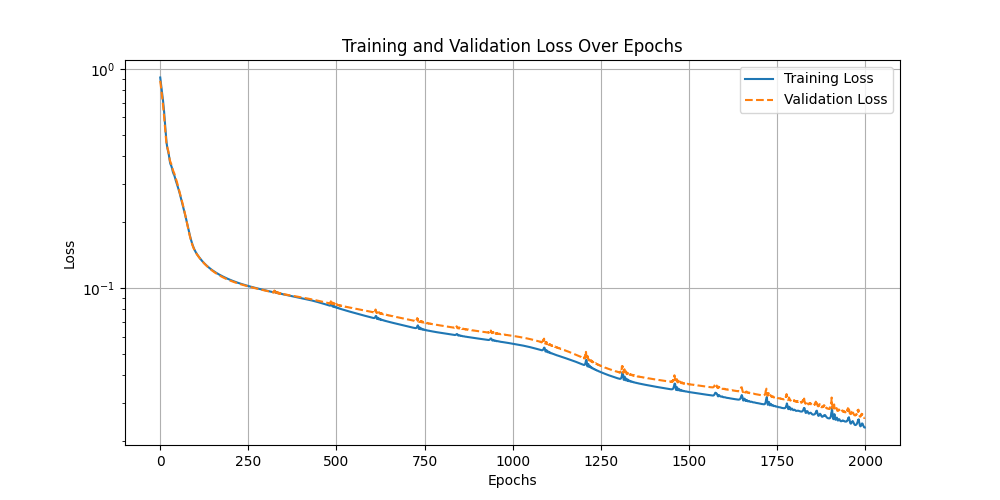
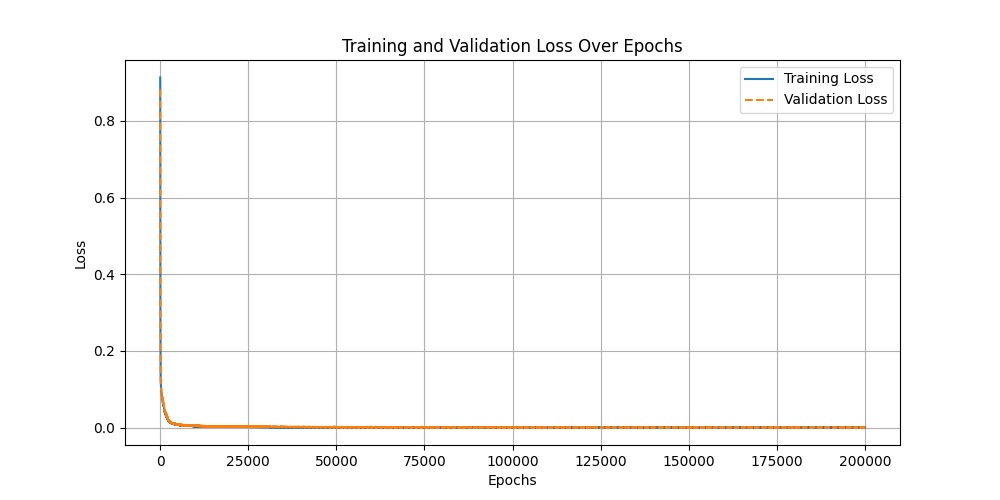
Dropout_altered

diff --git a/main/continuous_time_identification (Navier-Stokes)/NavierStokes_Pytorch_V9.py b/main/continuous_time_identification (Navier-Stokes)/NavierStokes_Pytorch_V9.py
@@ -1,3 +1,17 @@
+import numpy as np
+import torch
+import torch.nn as nn
+import torch.nn.init as init
+import scipy.io
+import matplotlib.pyplot as plt
+from torch.autograd import grad
+import time
+from sklearn.model_selection import train_test_split
+
+# Set seeds for reproducibility
+np.random.seed(1234)
+torch.manual_seed(1234)
+
 class PhysicsInformedNN(nn.Module):
     def __init__(self, layers, rho1=1.0, rho2=1.0, activation='tanh', dropout_prob=0.0):
         super(PhysicsInformedNN, self).__init__()
@@ -13,10 +27,9 @@ class PhysicsInformedNN(nn.Module):
         for i in range(len(layers) - 1):
             linear_layer = nn.Linear(layers[i], layers[i + 1])
             if i < len(layers) - 2:
-                # Add linear and activation layers to the model
+                # Add linear, activation, and dropout layers to the model
                 self.model.add_module(f"linear_{i}", linear_layer)
                 self.model.add_module(f"{activation}_{i}", activation_function)
-                # Add dropout layer if dropout_prob > 0
                 if dropout_prob > 0.0:
                     self.model.add_module(f"dropout_{i}", nn.Dropout(dropout_prob))
             else:
@@ -85,3 +98,148 @@ class PhysicsInformedNN(nn.Module):
         total_loss = self.rho1 * (mse_u + mse_v) + self.rho2 * (mse_f_u + mse_f_v)
         return total_loss, mse_u, mse_v, mse_f_u, mse_f_v
 
+def train_pinn(data_path, layers, rho1=1.0, rho2=1.0, epochs=200000, batch_size=5000, lr=0.001, noise_level=0.0, save_path="model.pth", track_loss=False, dropout_prob=0.0):
+    # Load the data from the .mat file
+    data = scipy.io.loadmat(data_path)
+    if torch.cuda.is_available():
+        device = torch.device("cuda")
+        print("Cuda available! Training on GPU.")
+    else:
+        device = torch.device("cpu")
+        print("Training on CPU.")
+    device = torch.device("cuda" if torch.cuda.is_available() else "cpu")
+
+    # Extract and process data
+    U_star = torch.tensor(data['U_star'], dtype=torch.float32).to(device)
+    P_star = torch.tensor(data['p_star'], dtype=torch.float32).to(device)
+    t_star = torch.tensor(data['t'], dtype=torch.float32).to(device)
+    X_star = torch.tensor(data['X_star'], dtype=torch.float32).to(device)
+
+    N = X_star.shape[0]
+    T = t_star.shape[0]
+    XX = X_star[:, 0:1].repeat(1, T)
+    YY = X_star[:, 1:2].repeat(1, T)
+    TT = t_star.repeat(1, N).T
+
+    x = XX.flatten()[:, None]
+    y = YY.flatten()[:, None]
+    t = TT.flatten()[:, None]
+    u = U_star[:, 0, :].flatten()[:, None]
+    v = U_star[:, 1, :].flatten()[:, None]
+
+    # Select a random batch of training data
+    N_train = batch_size
+    idx = np.random.choice(N * T, N_train, replace=False)
+    x_train, x_val = train_test_split(x[idx, :], test_size=0.2, random_state=1234)
+    y_train, y_val = train_test_split(y[idx, :], test_size=0.2, random_state=1234)
+    t_train, t_val = train_test_split(t[idx, :], test_size=0.2, random_state=1234)
+    u_train, u_val = train_test_split(u[idx, :], test_size=0.2, random_state=1234)
+    v_train, v_val = train_test_split(v[idx, :], test_size=0.2, random_state=1234)
+
+    # Initialize the model and optimizer
+    model = PhysicsInformedNN(layers, rho1=rho1, rho2=rho2, dropout_prob=dropout_prob).to(device)
+    optimizer = torch.optim.AdamW(model.parameters(), lr=lr)
+    
+    # Add noise to the training data if specified
+    if noise_level > 0:
+        u_train += noise_level * torch.std(u_train) * torch.randn_like(u_train)
+        v_train += noise_level * torch.std(v_train) * torch.randn_like(v_train)
+        print("Training data with noise added successfully!")
+
+    # Require gradients for the training and validation data
+    x_train.requires_grad_(True)
+    y_train.requires_grad_(True)
+    t_train.requires_grad_(True)
+    u_train.requires_grad_(True)
+    v_train.requires_grad_(True)
+
+    x_val.requires_grad_(True)
+    y_val.requires_grad_(True)
+    t_val.requires_grad_(True)
+    u_val.requires_grad_(True)
+    v_val.requires_grad_(True)
+
+    start_time = time.time() # Track time for training
+    model.train()
+
+    if track_loss:
+        train_loss_history = []
+        val_loss_history = []
+        mse_u_history = []
+        mse_v_history = []
+        mse_f_u_history = []
+        mse_f_v_history = []
+
+    # Training loop
+    for epoch in range(epochs):
+        # Training step
+        optimizer.zero_grad()
+        u_pred, v_pred, p_pred, f_u_pred, f_v_pred = model(x_train, y_train, t_train)
+        loss, mse_u, mse_v, mse_f_u, mse_f_v = model.loss_function(u_train, v_train, (u_pred, v_pred, p_pred, f_u_pred, f_v_pred))
+        loss.backward()
+        optimizer.step()
+
+        if track_loss:
+            # Validation step
+            model.eval()
+            u_val_pred, v_val_pred, p_val_pred, f_u_val_pred, f_v_val_pred = model(x_val, y_val, t_val)
+            val_loss, val_mse_u, val_mse_v, val_mse_f_u, val_mse_f_v = model.loss_function(u_val, v_val, (u_val_pred, v_val_pred, p_val_pred, f_u_val_pred, f_v_val_pred))
+            model.train()
+            train_loss_history.append(loss.item())
+            val_loss_history.append(val_loss.item())
+            mse_u_history.append(mse_u.item())
+            mse_v_history.append(mse_v.item())
+            mse_f_u_history.append(mse_f_u.item())
+            mse_f_v_history.append(mse_f_v.item())
+
+        if epoch % 100 == 0:
+            print(f"Epoch {epoch}: Train Loss = {loss.item()}, Val Loss = {val_loss.item()}")
+        if epoch % 1000 == 0:  # Save the model every 1000 epochs
+            torch.save(model.state_dict(), save_path)
+            print(f"Model saved at epoch {epoch}")
+    
+    end_time = time.time()
+    print(f"Training time: {end_time - start_time} seconds")
+    torch.save(model.state_dict(), save_path)
+    print("Model saved successfully!")
+
+    # Plot and save the loss curve if tracking loss
+    if track_loss:
+        plt.figure(figsize=(10, 5))
+        plt.semilogy(range(epochs), train_loss_history, label="Training Loss")
+        plt.semilogy(range(epochs), val_loss_history, label="Validation Loss", linestyle='--')
+        plt.xlabel("Epochs")
+        plt.ylabel("Loss")
+        plt.title("Training and Validation Loss Over Epochs")
+        plt.legend()
+        plt.grid(True)
+        loss_curve_name = f"Loss_curve_{save_path.split('.')[0]}.png"
+        plt.savefig(loss_curve_name)
+        plt.show()
+        print(f"Loss curve saved successfully as {loss_curve_name}!")
+
+        # Plot and save the individual loss curves
+        plt.figure(figsize=(10, 5))
+        plt.semilogy(range(epochs), mse_u_history, label="MSE U")
+        plt.semilogy(range(epochs), mse_v_history, label="MSE V")
+        plt.semilogy(range(epochs), mse_f_u_history, label="MSE f_u")
+        plt.semilogy(range(epochs), mse_f_v_history, label="MSE f_v")
+        plt.xlabel("Epochs")
+        plt.ylabel("MSE Loss")
+        plt.title("Individual MSE Losses Over Epochs")
+        plt.legend()
+        plt.grid(True)
+        mse_loss_curve_name = f"MSE_Loss_curve_{save_path.split('.')[0]}.png"
+        plt.savefig(mse_loss_curve_name)
+        plt.show()
+        print(f"Individual MSE loss curves saved successfully as {mse_loss_curve_name}!")
+
+# Example usage
+if __name__ == "__main__":
+    layers = [3, 20, 20, 20, 20, 20, 20, 20, 20, 2]
+    data_path = '../Data/cylinder_nektar_wake.mat'
+    save_path = "model_with_dropout.pth"
+    rho1 = 1.0  # Set your rho1 value here
+    rho2 = 1.0  # Set your rho2 value here
+    dropout_prob = 0.2  # Set your dropout probability here
+    train_pinn(data_path, layers, rho1=rho1, rho2=rho2, epochs=200000, batch_size=5000, lr=0.001, noise_level=0, save_path=save_path, track_loss=True, dropout_prob=dropout_prob)

diff --git a/main/continuous_time_identification (Navier-Stokes)/NavierStokes_Pytorch_V8.py b/main/continuous_time_identification (Navier-Stokes)/NavierStokes_Pytorch_V8.py
@@ -204,8 +204,8 @@ def train_pinn(data_path, layers, rho1=1.0, rho2=1.0, epochs=200000, batch_size=
     # Plot and save the loss curve if tracking loss
     if track_loss:
         plt.figure(figsize=(10, 5))
-        plt.plot(range(epochs), train_loss_history, label="Training Loss")
-        plt.plot(range(epochs), val_loss_history, label="Validation Loss", linestyle='--')
+        plt.semilogy(range(epochs), train_loss_history, label="Training Loss")
+        plt.semilogy(range(epochs), val_loss_history, label="Validation Loss", linestyle='--')
         plt.xlabel("Epochs")
         plt.ylabel("Loss")
         plt.title("Training and Validation Loss Over Epochs")
@@ -218,10 +218,10 @@ def train_pinn(data_path, layers, rho1=1.0, rho2=1.0, epochs=200000, batch_size=
 
         # Plot and save the individual loss curves
         plt.figure(figsize=(10, 5))
-        plt.plot(range(epochs), mse_u_history, label="MSE U")
-        plt.plot(range(epochs), mse_v_history, label="MSE V")
-        plt.plot(range(epochs), mse_f_u_history, label="MSE f_u")
-        plt.plot(range(epochs), mse_f_v_history, label="MSE f_v")
+        plt.semilogy(range(epochs), mse_u_history, label="MSE U")
+        plt.semilogy(range(epochs), mse_v_history, label="MSE V")
+        plt.semilogy(range(epochs), mse_f_u_history, label="MSE f_u")
+        plt.semilogy(range(epochs), mse_f_v_history, label="MSE f_v")
         plt.xlabel("Epochs")
         plt.ylabel("MSE Loss")
         plt.title("Individual MSE Losses Over Epochs")
